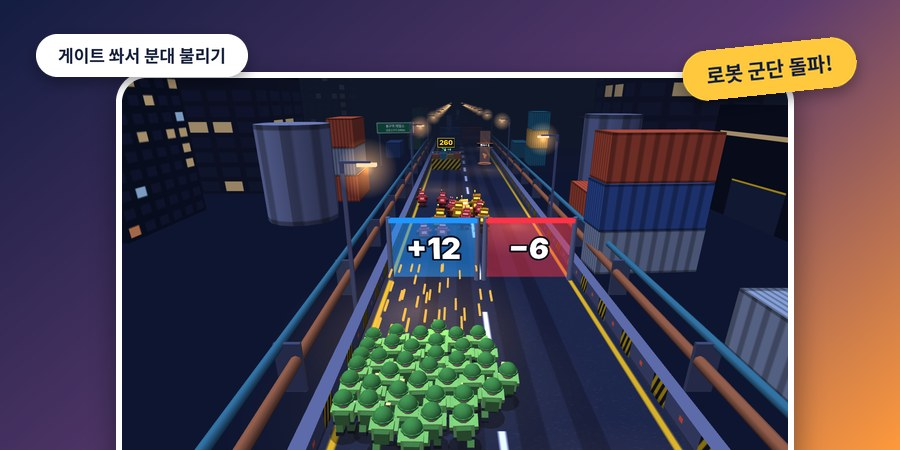
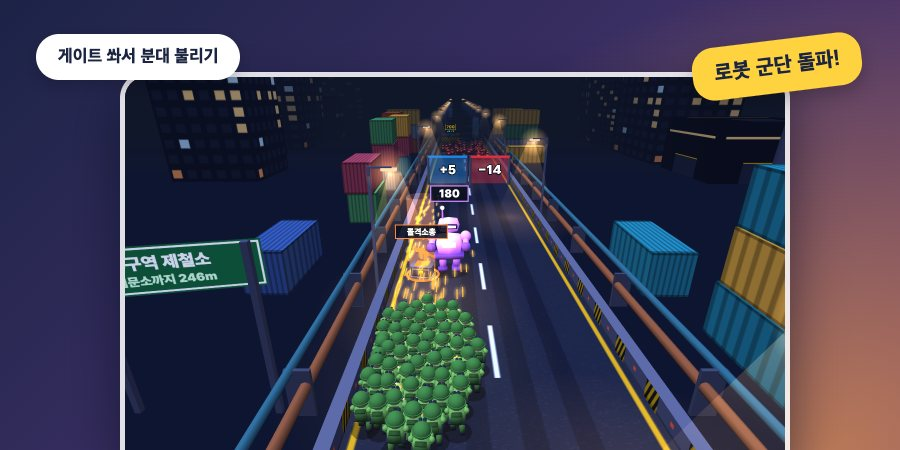
fix: 야간 분대 작전 퀄리티 점검 — 병사(조끼 · 야간 투시경) · 로봇 · 보스 · 무기 상자 · 바리케이드 둥글고 디테일 있게, 예광탄 · 총구 불꽃 · 가로등 빛 원뿔, 보스 안내 띠 위치, 대표 그림

diff --git a/web/games/embed/nightsquad.html b/web/games/embed/nightsquad.html
@@ -58,7 +58,7 @@ button:focus-visible{outline:3px solid var(--hazard);outline-offset:3px}
 #bossBar span{font-size:15px;color:#ffd0d4;text-shadow:0 1px 3px #000}
 #bossBar div{width:100%;height:12px;background:rgba(13,19,36,.9);border:1px solid #6b2330;border-radius:3px;overflow:hidden}
 #bossFill{display:block;height:100%;width:100%;background:linear-gradient(90deg,var(--foe),#ff8a5c)}
-#banner{position:fixed;left:50%;top:27%;transform:translate(-50%,-50%) scale(.9);padding:9px 26px;font-size:clamp(22px,5vw,42px);color:#14161c;background:var(--hazard);border-top:6px solid #14161c;border-bottom:6px solid #14161c;outline:4px solid var(--hazard);opacity:0;pointer-events:none;transition:opacity .2s,transform .2s;white-space:nowrap}
+#banner{position:fixed;left:50%;top:44%;transform:translate(-50%,-50%) scale(.9);padding:9px 26px;font-size:clamp(22px,5vw,42px);color:#14161c;background:var(--hazard);border-top:6px solid #14161c;border-bottom:6px solid #14161c;outline:4px solid var(--hazard);opacity:0;pointer-events:none;transition:opacity .2s,transform .2s;white-space:nowrap}
 #banner.on{opacity:1;transform:translate(-50%,-50%) scale(1)}
 #floats{position:fixed;inset:0;pointer-events:none;overflow:hidden}
 .float{position:absolute;left:-99px;top:-99px;font-family:var(--font-display);font-weight:900;font-synthesis:none;font-style:normal;font-size:clamp(26px,5vw,46px);white-space:nowrap;opacity:0;transform:translate(-50%,-50%);animation:rise .95s cubic-bezier(.2,.7,.3,1) forwards;text-shadow:0 2px 0 rgba(0,0,0,.6),0 0 18px rgba(0,0,0,.55)}
@@ -732,6 +732,11 @@ const dz = d => -d;
   fill(new T.InstancedMesh(BOXU, new T.MeshBasicMaterial({ color: 0xffe2b0 }), heads.length), heads);
   const poolMesh = fill(new T.InstancedMesh(new T.PlaneGeometry(1, 1).rotateX(-Math.PI / 2), new T.MeshBasicMaterial({ map: glowTex, color: 0xffa348, transparent: true, opacity: 0.26, blending: T.AdditiveBlending, depthWrite: false }), pools.length), pools);
   poolMesh.renderOrder = 1;
+  // 가로등 빛 기둥 — 위가 진하고 아래로 갈수록 옅어지는 원뿔(밤 분위기)
+  const coneTex = tex(8, 64, (g, w, h) => { const r = g.createLinearGradient(0, 0, 0, h); r.addColorStop(0, 'rgba(255,255,255,.9)'); r.addColorStop(0.5, 'rgba(255,255,255,.28)'); r.addColorStop(1, 'rgba(255,255,255,0)'); g.fillStyle = r; g.fillRect(0, 0, w, h); });
+  const cones = heads.map(o => [o[0] - Math.sign(o[0]) * 0.3, 0, o[2], 1, 1, 1, 0]);
+  const coneMesh = fill(new T.InstancedMesh(new T.CylinderGeometry(0.32, 2.7, 6.7, 18, 1, true).translate(0, 3.35, 0), new T.MeshBasicMaterial({ map: coneTex, color: 0xffb35c, transparent: true, opacity: 0.16, blending: T.AdditiveBlending, depthWrite: false, side: T.DoubleSide }), cones.length), cones);
+  coneMesh.renderOrder = 1;
   const glowGeo = new T.BufferGeometry(); glowGeo.setAttribute('position', new T.Float32BufferAttribute(glowPos, 3));
   const lampGlow = new T.Points(glowGeo, new T.PointsMaterial({ map: glowTex, color: 0xffb45e, size: 5.5, transparent: true, opacity: 0.9, blending: T.AdditiveBlending, depthWrite: false, fog: false }));
   lampGlow.frustumCulled = false; env.add(lampGlow);
@@ -853,39 +858,64 @@ function merge(parts) {
   return g;
 }
 const B = (w, h, d) => new T.BoxGeometry(w, h, d);
-// 병사 — −z(앞)를 보고 선다. 무기 단계마다 총이 커지고 총구 빛깔이 바뀐다
+// 둥근 모서리 상자 — 상자 꼭짓점을 안쪽 상자 둘레로 r 만큼 둥글게 민다
+function R(w, h, d, r, seg) {
+  r = Math.min(r, w / 2 - 1e-3, h / 2 - 1e-3, d / 2 - 1e-3); seg = seg || 2;
+  const g = new T.BoxGeometry(w, h, d, seg, seg, seg), p = g.attributes.position, nr = g.attributes.normal;
+  const ix = w / 2 - r, iy = h / 2 - r, iz = d / 2 - r, v = new T.Vector3(), c = new T.Vector3();
+  for (let i = 0; i < p.count; i++) {
+    v.fromBufferAttribute(p, i);
+    c.set(clamp(v.x, -ix, ix), clamp(v.y, -iy, iy), clamp(v.z, -iz, iz));
+    v.sub(c); if (v.lengthSq() < 1e-12) continue; v.normalize();
+    nr.setXYZ(i, v.x, v.y, v.z); v.multiplyScalar(r).add(c); p.setXYZ(i, v.x, v.y, v.z);
+  }
+  return g;
+}
+const Cy = (rt, rb, h, n) => new T.CylinderGeometry(rt, rb, h, n || 10);
+const Sp = (r, a, b) => new T.SphereGeometry(r, a || 10, b || 8);
+const RX = Math.PI / 2;
+// 병사 — −z(앞)를 보고 선다. 둥근 몸통 · 헬멧 · 야간 투시경(초록 빛) · 무기 단계마다 총이 커지고 총구 빛깔이 바뀐다
 function soldierBody(lvl) {
-  const uni = 0x74b356, dark = 0x3f6f36, skin = 0xf3c9a0, helm = 0x3d7f3a, gear = 0x262c3a, k = lvl * 0.014;
+  const uni = 0x6fae52, dark = 0x3c6a34, skin = 0xf3c9a0, helm = 0x3f7d3b, gear = 0x262c3a, metal = 0x4a5266, k = lvl * 0.014, gl = 0.62 + lvl * 0.07;
   return merge([
-    part(B(0.5, 0.42, 0.32), uni, 0, 0.57, 0),
-    part(B(0.52, 0.08, 0.34), gear, 0, 0.4, 0),
-    part(B(0.34, 0.3, 0.15), dark, 0, 0.6, 0.22),
-    part(new T.SphereGeometry(0.2, 10, 8), skin, 0, 0.97, 0),
-    part(new T.SphereGeometry(0.24, 10, 5, 0, Math.PI * 2, 0, Math.PI / 2), helm, 0, 1.0, 0),
-    part(new T.CylinderGeometry(0.262, 0.262, 0.045, 10), helm, 0, 1.0, 0),
-    part(B(0.05, 0.06, 0.03), 0x20242c, -0.075, 0.97, -0.19), part(B(0.05, 0.06, 0.03), 0x20242c, 0.075, 0.97, -0.19),
-    part(B(0.13, 0.13, 0.36), uni, -0.28, 0.62, -0.14, 0.25), part(B(0.13, 0.13, 0.36), uni, 0.28, 0.62, -0.14, 0.25),
-    part(B(0.1, 0.1, 0.1), skin, -0.2, 0.6, -0.33), part(B(0.1, 0.1, 0.1), skin, 0.2, 0.6, -0.33),
-    part(B(0.09 + k, 0.12 + k, 0.62 + lvl * 0.07), gear, 0, 0.62, -0.42 - lvl * 0.035),
-    part(B(0.07, 0.16, 0.1), gear, 0, 0.53, -0.3),
-    part(B(0.11 + k, 0.14 + k, 0.1), WEAPONS[lvl].color, 0, 0.62, -0.76 - lvl * 0.07, 0, 0, 0, 1.5),
+    part(R(0.5, 0.44, 0.32, 0.12), uni, 0, 0.58, 0),
+    part(R(0.42, 0.26, 0.08, 0.04), dark, 0, 0.62, -0.17),            // 방탄 조끼 앞판
+    part(R(0.53, 0.08, 0.35, 0.035), gear, 0, 0.4, 0),               // 탄띠
+    part(R(0.34, 0.34, 0.17, 0.07), dark, 0, 0.62, 0.22),            // 배낭
+    part(R(0.3, 0.06, 0.16, 0.025), 0x2f5229, 0, 0.8, 0.24),
+    part(Sp(0.2, 10, 7), skin, 0, 0.97, 0),
+    part(new T.SphereGeometry(0.245, 12, 5, 0, Math.PI * 2, 0, Math.PI / 2), helm, 0, 1.0, 0),
+    part(Cy(0.265, 0.265, 0.045, 12), helm, 0, 1.0, 0),
+    part(R(0.2, 0.05, 0.05, 0.02), gear, 0, 1.08, -0.22),           // 투시경 받침
+    part(Cy(0.045, 0.05, 0.12, 8), gear, -0.055, 1.08, -0.27, RX), part(Cy(0.045, 0.05, 0.12, 8), gear, 0.055, 1.08, -0.27, RX),
+    part(Cy(0.034, 0.034, 0.02, 8), 0x7dffb0, -0.055, 1.08, -0.335, RX, 0, 0, 2.2), part(Cy(0.034, 0.034, 0.02, 8), 0x7dffb0, 0.055, 1.08, -0.335, RX, 0, 0, 2.2),
+    part(Sp(0.085, 8, 6), uni, -0.27, 0.72, 0), part(Sp(0.085, 8, 6), uni, 0.27, 0.72, 0),   // 어깨
+    part(Cy(0.065, 0.06, 0.38, 8), uni, -0.25, 0.64, -0.16, RX - 0.25), part(Cy(0.065, 0.06, 0.38, 8), uni, 0.25, 0.64, -0.16, RX - 0.25),
+    part(Sp(0.062, 8, 6), skin, -0.19, 0.6, -0.34), part(Sp(0.062, 8, 6), skin, 0.19, 0.6, -0.34),
+    part(R(0.1 + k, 0.13 + k, 0.46 + lvl * 0.05, 0.035), gear, 0, 0.63, -0.36 - lvl * 0.02),  // 총몸
+    part(R(0.08, 0.15, 0.08, 0.025), gear, 0, 0.53, -0.32),                                    // 탄창
+    part(R(0.06 + k, 0.06, 0.18, 0.02), metal, 0, 0.72 + k, -0.4),                            // 조준경
+    part(Cy(0.03 + k * 0.6, 0.03 + k * 0.6, 0.3 + lvl * 0.05, 8), metal, 0, 0.65, -gl + 0.04, RX), // 총열
+    part(Cy(0.055 + k, 0.045 + k, 0.08, 8), WEAPONS[lvl].color, 0, 0.65, -gl - 0.1 - lvl * 0.025, RX, 0, 0, 1.6),
   ]);
 }
 const solGeos = WEAPONS.map((w, i) => soldierBody(i));
-const solLegGeo = merge([part(B(0.17, 0.34, 0.2), 0x4c7f3c, 0, -0.17, 0), part(B(0.19, 0.1, 0.28), 0x1b1e26, 0, -0.33, -0.03)]);
+const solLegGeo = merge([part(R(0.17, 0.34, 0.2, 0.07), 0x4a7c3b, 0, -0.17, 0), part(R(0.19, 0.11, 0.29, 0.05), 0x1b1e26, 0, -0.33, -0.03)]);
 // 폭주 로봇 — 흰빛 몸에 종류별 색을 곱한다. 눈 · 가슴등은 밝게
 const robotGeo = merge([
-  part(B(0.6, 0.5, 0.38), 0xdcdce2, 0, 0.62, 0),
-  part(B(0.3, 0.16, 0.03), 0xffffff, 0, 0.66, -0.2, 0, 0, 0, 2.6),
-  part(B(0.44, 0.32, 0.36), 0xbfbfc8, 0, 1.06, 0),
-  part(B(0.36, 0.1, 0.03), 0xffffff, 0, 1.08, -0.19, 0, 0, 0, 3),
-  part(B(0.04, 0.2, 0.04), 0x8a8a94, 0.12, 1.32, 0),
-  part(B(0.07, 0.07, 0.07), 0xffffff, 0.12, 1.44, 0, 0, 0, 0, 3),
-  part(B(0.14, 0.14, 0.5), 0x9a9aa6, -0.38, 0.72, -0.22), part(B(0.14, 0.14, 0.5), 0x9a9aa6, 0.38, 0.72, -0.22),
-  part(B(0.18, 0.18, 0.14), 0x55555e, -0.38, 0.72, -0.52), part(B(0.18, 0.18, 0.14), 0x55555e, 0.38, 0.72, -0.52),
-  part(B(0.7, 0.12, 0.42), 0x44444c, 0, 0.36, 0),
+  part(R(0.62, 0.52, 0.42, 0.16), 0xdcdce2, 0, 0.63, 0),
+  part(R(0.32, 0.14, 0.05, 0.04), 0xffffff, 0, 0.66, -0.2, 0, 0, 0, 2.6),
+  part(R(0.5, 0.36, 0.4, 0.15), 0xc4c4cc, 0, 1.08, 0),
+  part(R(0.4, 0.12, 0.05, 0.05), 0x22222a, 0, 1.09, -0.19),
+  part(R(0.34, 0.07, 0.04, 0.03), 0xffffff, 0, 1.09, -0.215, 0, 0, 0, 3),
+  part(Cy(0.02, 0.025, 0.22, 6), 0x8a8a94, 0.13, 1.34, 0),
+  part(Sp(0.05, 8, 6), 0xffffff, 0.13, 1.47, 0, 0, 0, 0, 3),
+  part(Sp(0.13, 10, 8), 0xa8a8b2, -0.38, 0.8, 0), part(Sp(0.13, 10, 8), 0xa8a8b2, 0.38, 0.8, 0),
+  part(Cy(0.07, 0.07, 0.46, 8), 0x9a9aa6, -0.38, 0.72, -0.22, RX), part(Cy(0.07, 0.07, 0.46, 8), 0x9a9aa6, 0.38, 0.72, -0.22, RX),
+  part(R(0.2, 0.2, 0.16, 0.06), 0x55555e, -0.38, 0.72, -0.5), part(R(0.2, 0.2, 0.16, 0.06), 0x55555e, 0.38, 0.72, -0.5),
+  part(R(0.7, 0.13, 0.44, 0.05), 0x44444c, 0, 0.36, 0),
 ]);
-const robotLegGeo = merge([part(B(0.18, 0.34, 0.2), 0x77777f, 0, -0.17, 0), part(B(0.22, 0.1, 0.3), 0x3a3a42, 0, -0.33, -0.03)]);
+const robotLegGeo = merge([part(R(0.18, 0.34, 0.2, 0.07), 0x77777f, 0, -0.17, 0), part(R(0.24, 0.11, 0.32, 0.05), 0x3a3a42, 0, -0.33, -0.03)]);
 
 function inst(geo, mat, cap, colored) {
   const m = new T.InstancedMesh(geo, mat, cap);
@@ -899,7 +929,14 @@ const solBody = inst(solGeos[0], charMat, SOLCAP, true), solLegL = inst(solLegGe
 const enBody = inst(robotGeo, charMat, ENCAP, true), enLegL = inst(robotLegGeo, charMat, ENCAP, true), enLegR = inst(robotLegGeo, charMat, ENCAP, true);
 const shadows = inst(new T.CircleGeometry(0.42, 12).rotateX(-Math.PI / 2), new T.MeshBasicMaterial({ color: 0x000000, transparent: true, opacity: 0.38, depthWrite: false }), SHCAP, false);
 const bulletMat = new T.MeshBasicMaterial({ color: WEAPONS[0].color, fog: false });
-const bullets = inst(new T.BoxGeometry(1, 1, 1), bulletMat, BULCAP, false);
+const bullets = inst(new T.CylinderGeometry(0.5, 0.5, 1, 6).rotateX(Math.PI / 2), bulletMat, BULCAP, false);
+// 예광탄 겉 빛 — 같은 자리에 넓고 옅은 빛 띠를 더한다
+const tracerMat = new T.MeshBasicMaterial({ map: glowTex, color: WEAPONS[0].color, transparent: true, opacity: 0.55, blending: T.AdditiveBlending, depthWrite: false, fog: false });
+const tracers = inst(new T.PlaneGeometry(1, 1).rotateX(-Math.PI / 2), tracerMat, BULCAP, false);
+// 총구 불꽃 — 방금 쏜 병사의 총 끝에 반짝
+const flashGeo = new T.BufferGeometry(); flashGeo.setAttribute('position', new T.BufferAttribute(new Float32Array(SOLCAP * 3), 3).setUsage(T.DynamicDrawUsage));
+const flashMat = new T.PointsMaterial({ map: glowTex, color: WEAPONS[0].color, size: 1.0, transparent: true, blending: T.AdditiveBlending, depthWrite: false });
+const flashes = new T.Points(flashGeo, flashMat); flashes.frustumCulled = false; scene.add(flashes);
 const sparks = inst(new T.BoxGeometry(1, 1, 1), new T.MeshBasicMaterial({ vertexColors: false }), PCAP, true);
 // 분대 발밑 총구 불빛
 const squadGlow = new T.Mesh(new T.PlaneGeometry(1, 1).rotateX(-Math.PI / 2), new T.MeshBasicMaterial({ map: glowTex, color: 0xffb060, transparent: true, opacity: 0, blending: T.AdditiveBlending, depthWrite: false }));
@@ -916,19 +953,23 @@ function commit(mesh, n) { mesh.count = n; mesh.instanceMatrix.needsUpdate = tru
 
 /* ---------- 보스: 거대 경비 로봇 (+z, 분대 쪽을 본다) ---------- */
 const boss = (() => {
+  const RB = (w, h, d, r) => R(w, h, d, r, 4);
   const g = new T.Group(); g.visible = false; scene.add(g);
-  const steel = new T.MeshLambertMaterial({ color: 0x3b4363 }), dark = new T.MeshLambertMaterial({ color: 0x20263c }), haz = new T.MeshLambertMaterial({ color: 0xe6a81c }), glow = new T.MeshBasicMaterial({ color: 0xff3b30 });
+  const steel = new T.MeshLambertMaterial({ color: 0x46507a }), dark = new T.MeshLambertMaterial({ color: 0x232a42 }), haz = new T.MeshLambertMaterial({ color: 0xe6a81c }), glow = new T.MeshBasicMaterial({ color: 0xff3b30 });
   const M = (geo, mat, x, y, z, parent) => { const m = new T.Mesh(geo, mat); m.position.set(x, y, z); (parent || g).add(m); return m; };
   const body = new T.Group(); g.add(body);
-  M(B(2.8, 0.9, 1.7), dark, 0, 2.75, 0, body);
-  M(B(3.7, 2.4, 2.3), steel, 0, 4.3, 0, body);
-  M(B(3.74, 0.5, 2.34), haz, 0, 3.45, 0, body);
-  const core = M(new T.SphereGeometry(0.62, 12, 10), glow, 0, 4.55, 1.2, body);
-  M(B(1.4, 1.0, 1.3), dark, 0, 6.0, 0, body); M(B(1.12, 0.26, 0.1), glow, 0, 6.05, 0.68, body);
-  M(B(0.1, 0.9, 0.1), dark, 0.45, 6.9, 0, body); M(B(0.2, 0.2, 0.2), glow, 0.45, 7.4, 0, body);
+  M(RB(2.8, 0.9, 1.8, 0.35), dark, 0, 2.75, 0, body);                       // 허리
+  M(RB(3.8, 2.5, 2.4, 0.6), steel, 0, 4.3, 0, body);                        // 가슴
+  M(RB(3.86, 0.46, 2.46, 0.2), haz, 0, 3.4, 0, body);                       // 노란 띠
+  M(RB(2.2, 1.3, 0.3, 0.14), dark, 0, 4.55, 1.12, body);                    // 가슴판
+  const core = M(Sp(0.5, 16, 12), glow, 0, 4.55, 1.3, body);
+  for (const s of [-1, 1]) for (let i = 0; i < 3; i++) M(RB(0.5, 0.09, 0.08, 0.04), haz, s * 1.3, 4.95 - i * 0.26, 1.21, body); // 환기구
+  M(RB(1.6, 1.15, 1.4, 0.42), steel, 0, 6.05, 0, body);                     // 머리
+  M(RB(1.3, 0.34, 0.2, 0.15), dark, 0, 6.1, 0.66, body); M(RB(1.12, 0.16, 0.08, 0.07), glow, 0, 6.1, 0.76, body); // 눈 띠
+  M(Cy(0.05, 0.07, 0.9, 6), dark, 0.5, 6.95, 0, body); M(Sp(0.15, 10, 8), glow, 0.5, 7.42, 0, body);
   const limb = (x, y, parent) => { const p = new T.Group(); p.position.set(x, y, 0); (parent || g).add(p); return p; };
-  const legs = [-1, 1].map(s => { const p = limb(s * 0.95, 2.6); M(B(1, 1.5, 1.1), steel, 0, -0.75, 0, p); M(B(0.85, 1.2, 0.95), dark, 0, -1.85, 0, p); M(B(1.25, 0.45, 1.8), haz, 0, -2.38, 0.25, p); return p; });
-  const arms = [-1, 1].map(s => { const p = limb(s * 2.6, 5.1, body); M(B(1.5, 1.3, 1.7), haz, 0, 0, 0, p); M(B(0.85, 1.9, 0.95), steel, 0, -1.5, 0, p); M(new T.CylinderGeometry(0.55, 0.62, 1.5, 12).rotateX(Math.PI / 2), dark, 0, -2.5, 0.45, p); M(new T.CylinderGeometry(0.3, 0.3, 0.1, 12).rotateX(Math.PI / 2), glow, 0, -2.5, 1.22, p); return p; });
+  const legs = [-1, 1].map(s => { const p = limb(s * 0.95, 2.6); M(RB(1.05, 1.5, 1.15, 0.36), steel, 0, -0.75, 0, p); M(Sp(0.42, 12, 10), dark, 0, -1.45, 0.05, p); M(RB(0.85, 1.1, 0.95, 0.3), dark, 0, -1.9, 0, p); M(RB(1.3, 0.45, 1.85, 0.2), haz, 0, -2.38, 0.25, p); return p; });
+  const arms = [-1, 1].map(s => { const p = limb(s * 2.6, 5.1, body); M(RB(1.6, 1.35, 1.8, 0.5), haz, 0, 0.05, 0, p); M(RB(1.2, 0.18, 1.5, 0.08), dark, 0, 0.62, 0, p); M(Cy(0.42, 0.42, 1.9, 12), steel, 0, -1.5, 0, p); M(Cy(0.55, 0.62, 1.5, 14).rotateX(Math.PI / 2), dark, 0, -2.5, 0.45, p); M(Cy(0.3, 0.3, 0.1, 14).rotateX(Math.PI / 2), glow, 0, -2.5, 1.22, p); return p; });
   return { g, body, legs, arms, core, mats: [steel, dark, haz], dying: 0, x: 0, d: 0 };
 })();
 
@@ -953,6 +994,20 @@ const stage = new T.Group(); scene.add(stage);
 let gateViews = [], barrViews = [], pickViews = [];
 const postGeo = new T.CylinderGeometry(0.13, 0.16, 3.6, 8).translate(0, 1.8, 0), postMat = new T.MeshLambertMaterial({ color: 0x5b6480 });
 const crateGeo = B(1, 1, 1), barrMat = new T.MeshLambertMaterial({ map: hazardTex }), cageMat = new T.MeshLambertMaterial({ vertexColors: true });
+// 무기 상자 — 둥근 철제 상자(가장자리 빛 띠) 위에 총이 떠서 돈다. 모양은 한 번만 만들어 함께 쓴다
+const pickCrateGeo = merge([
+  part(R(1.3, 0.72, 0.96, 0.1), 0x2b3550, 0, 0.38, 0),
+  part(R(1.36, 0.1, 1.02, 0.045), 0x56627f, 0, 0.74, 0),
+  part(R(1.36, 0.1, 1.02, 0.045), 0x56627f, 0, 0.06, 0),
+  part(R(0.08, 0.6, 1.0, 0.03), 0x56627f, -0.5, 0.4, 0), part(R(0.08, 0.6, 1.0, 0.03), 0x56627f, 0.5, 0.4, 0),
+  part(R(0.32, 0.22, 0.04, 0.03), 0xf2c21a, 0, 0.42, 0.49), part(R(0.32, 0.22, 0.04, 0.03), 0xf2c21a, 0, 0.42, -0.49),
+]);
+const pickBandGeo = merge([part(R(1.0, 0.07, 0.04, 0.02), 0xffffff, 0, 0.6, 0.5), part(R(1.0, 0.07, 0.04, 0.02), 0xffffff, 0, 0.6, -0.5), part(R(0.85, 0.035, 0.85, 0.015), 0xffffff, 0, 0.8, 0)]);
+const pickGunGeo = merge([
+  part(R(1.2, 0.28, 0.22, 0.08), 0xffffff, 0.05, 0, 0), part(R(0.5, 0.22, 0.18, 0.07), 0xffffff, -0.75, -0.06, 0, 0, 0, -0.22),
+  part(R(0.2, 0.46, 0.18, 0.07), 0xffffff, -0.1, -0.3, 0, 0, 0, 0.2), part(R(0.16, 0.36, 0.16, 0.05), 0xffffff, 0.35, -0.26, 0),
+  part(Cy(0.07, 0.07, 0.62, 10), 0xffffff, 0.95, 0.03, 0, 0, 0, RX), part(R(0.4, 0.1, 0.12, 0.04), 0xffffff, 0.1, 0.2, 0),
+]);
 function disposeStage() {
   stage.traverse(o => { if (o.isMesh) { if (o.userData.own) o.geometry.dispose(); const m = o.material; if (m && m.userData.own) { if (m.map && m.map.isCanvasTexture && m.userData.ownMap) m.map.dispose(); m.dispose(); } } });
   while (stage.children.length) stage.remove(stage.children[0]);
@@ -975,13 +1030,13 @@ function buildStage(S) {
     const w = b.x1 - b.x0, grp = new T.Group(); grp.position.set((b.x0 + b.x1) / 2, 0, -b.d); stage.add(grp);
     const blockTex = hazardTex.clone(); blockTex.wrapS = T.RepeatWrapping; blockTex.repeat.set(w / 2.6, 1); blockTex.needsUpdate = true;
     const bmat = own(new T.MeshLambertMaterial({ map: blockTex })); bmat.userData.ownMap = true;
-    const block = new T.Mesh(own(B(w, 1.5, 1.0)), bmat); block.userData.own = true; block.position.y = 0.75; grp.add(block);
+    const block = new T.Mesh(own(R(w, 1.5, 1.0, 0.16, 2)), bmat); block.userData.own = true; block.position.y = 0.75; grp.add(block);
     const crates = [];
-    for (let i = 0, x = -w / 2 + 0.6; x < w / 2 - 0.4; x += 1.05, i++) crates.push(part(B(0.95, 0.62 + (i % 2) * 0.2, 0.8), [0x8a4a2f, 0x2f6f7f, 0x8a6d2f][i % 3], x, 1.5 + (0.62 + (i % 2) * 0.2) / 2, 0.02 * (i % 2 ? 1 : -1), 0, (i % 3 - 1) * 0.12));
+    for (let i = 0, x = -w / 2 + 0.6; x < w / 2 - 0.4; x += 1.05, i++) crates.push(part(R(0.95, 0.62 + (i % 2) * 0.2, 0.8, 0.08, 2), [0x8a4a2f, 0x2f6f7f, 0x8a6d2f][i % 3], x, 1.5 + (0.62 + (i % 2) * 0.2) / 2, 0.02 * (i % 2 ? 1 : -1), 0, (i % 3 - 1) * 0.12));
     const top = new T.Mesh(own(merge(crates)), cageMat); top.userData.own = true; grp.add(top);
     // 포로 우리 — 바리케이드 뒤
     const bars = [], rows = b.free > 6 ? 2 : 1, z0 = -1.5, z1 = -2.75 - (rows - 1) * 0.95;
-    for (let x = -w / 2 + 0.1; x <= w / 2 - 0.05; x += 0.5) { bars.push(part(B(0.06, 2.1, 0.06), 0x9aa3b8, x, 1.05, z0)); bars.push(part(B(0.06, 2.1, 0.06), 0x9aa3b8, x, 1.05, z1)); }
+    for (let x = -w / 2 + 0.1; x <= w / 2 - 0.05; x += 0.5) { bars.push(part(Cy(0.035, 0.035, 2.1, 6), 0x9aa3b8, x, 1.05, z0)); bars.push(part(Cy(0.035, 0.035, 2.1, 6), 0x9aa3b8, x, 1.05, z1)); }
     for (const z of [z0, z1]) bars.push(part(B(w, 0.09, 0.09), 0x9aa3b8, 0, 2.1, z));
     for (const s of [-1, 1]) bars.push(part(B(0.09, 0.09, z0 - z1), 0x9aa3b8, s * (w / 2 - 0.05), 2.1, (z0 + z1) / 2));
     const cage = new T.Mesh(own(merge(bars)), cageMat); cage.userData.own = true; grp.add(cage);
@@ -993,11 +1048,13 @@ function buildStage(S) {
     const grp = new T.Group(); grp.position.set(p.x, 0, -p.d); stage.add(grp);
     const col = 0x7df9ff;
     const ring = new T.Mesh(own(new T.TorusGeometry(0.95, 0.07, 6, 28).rotateX(Math.PI / 2)), own(new T.MeshBasicMaterial({ color: col }))); ring.userData.own = true; ring.position.y = 0.08; grp.add(ring);
-    const beam = new T.Mesh(own(new T.CylinderGeometry(0.8, 0.8, 5, 18, 1, true).translate(0, 2.5, 0)), own(new T.MeshBasicMaterial({ color: col, transparent: true, opacity: 0.16, blending: T.AdditiveBlending, depthWrite: false, side: T.DoubleSide }))); beam.userData.own = true; grp.add(beam);
-    const gun = new T.Mesh(own(merge([part(B(1.5, 0.26, 0.2), 0xffffff, 0.1, 0, 0), part(B(0.5, 0.2, 0.18), 0xffffff, -0.75, -0.06, 0, 0, 0, -0.25), part(B(0.2, 0.46, 0.18), 0xffffff, -0.1, -0.3, 0, 0, 0, 0.2), part(B(0.16, 0.36, 0.16), 0xffffff, 0.35, -0.26, 0), part(B(0.4, 0.12, 0.12), 0xffffff, 1.0, 0.03, 0)])), own(new T.MeshBasicMaterial({ color: col }))); gun.userData.own = true; gun.position.y = 1.55; grp.add(gun);
-    const L = makeLabel(256, 80, 2.6, 0.81, false); L.mesh.material.userData.own = true; L.mesh.material.userData.ownMap = true; L.mesh.userData.own = true;
+    const beam = new T.Mesh(own(new T.CylinderGeometry(0.8, 0.8, 5, 18, 1, true).translate(0, 2.5, 0)), own(new T.MeshBasicMaterial({ color: col, transparent: true, opacity: 0.22, blending: T.AdditiveBlending, depthWrite: false, side: T.DoubleSide }))); beam.userData.own = true; grp.add(beam);
+    const gun = new T.Mesh(pickGunGeo, own(new T.MeshBasicMaterial({ color: col }))); gun.position.y = 1.62; grp.add(gun);
+    const crate = new T.Mesh(pickCrateGeo, cageMat); crate.rotation.y = 0.18 * Math.sign(p.x || 1); grp.add(crate);
+    const band = new T.Mesh(pickBandGeo, own(new T.MeshBasicMaterial({ color: col }))); crate.add(band);
+    const L = makeLabel(256, 80, 3.2, 1.0, false); L.mesh.material.userData.own = true; L.mesh.material.userData.ownMap = true; L.mesh.userData.own = true;
     L.mesh.position.set(0, 2.85, 0); L.mesh.renderOrder = 3; grp.add(L.mesh);
-    return { p, grp, ring, beam, gun, L, key: null };
+    return { p, grp, ring, beam, gun, band, crate, L, key: null };
   });
 }
 function drawGate(gv) {
@@ -1021,7 +1078,7 @@ function drawPick(pv, text, col) {
   c.fillStyle = 'rgba(10,14,28,.85)'; c.fillRect(4, 8, 248, 64); c.strokeStyle = '#' + col.toString(16).padStart(6, '0'); c.lineWidth = 5; c.strokeRect(4, 8, 248, 64);
   big(c, text, 128, 43, 40, '#ffffff');
   pv.L.tx.needsUpdate = true;
-  pv.ring.material.color.setHex(col); pv.beam.material.color.setHex(col); pv.gun.material.color.setHex(col);
+  pv.ring.material.color.setHex(col); pv.beam.material.color.setHex(col); pv.gun.material.color.setHex(col); pv.band.material.color.setHex(col);
 }
 // 큰 로봇 머리 위 체력 숫자
 const hpLabels = [];
@@ -1319,7 +1376,7 @@ function sync(dt) {
   const running = S.phase === 'run', run = running ? clamp(S.v / CFG.SPEED, 0, 1) : 0, cheer = S.phase === 'win', idle = S.phase === 'ready';
   let n = 0, sh = 0;
   const SOLN = SOL * (1 - 0.14 * clamp((sol.length - 40) / 130, 0, 1)); // 큰 분대는 병사를 조금 작게 — 덜 겹치게
-  if (S.weapon !== lastWeapon) { lastWeapon = S.weapon; solBody.geometry = solGeos[S.weapon]; bulletMat.color.setHex(WEAPONS[S.weapon].color); muzzle.color.setHex(WEAPONS[S.weapon].color); squadGlow.material.color.setHex(WEAPONS[S.weapon].color); }
+  if (S.weapon !== lastWeapon) { lastWeapon = S.weapon; solBody.geometry = solGeos[S.weapon]; bulletMat.color.setHex(WEAPONS[S.weapon].color); tracerMat.color.setHex(WEAPONS[S.weapon].color); flashMat.color.setHex(WEAPONS[S.weapon].color); muzzle.color.setHex(WEAPONS[S.weapon].color); squadGlow.material.color.setHex(WEAPONS[S.weapon].color); }
   for (let i = 0; i < sol.length && n < SOLCAP; i++) {
     const s = sol[i], pop = s.born < 0 ? 1 : backOut(clamp((S.t - s.born) / 0.28, 0.05, 1)), sc = SOLN * pop;
     const sw = Math.sin(s.ph) * 0.8 * run, z = -s.d;
@@ -1391,8 +1448,12 @@ function sync(dt) {
 
   // 총알
   const W = WEAPONS[S.weapon]; let k = 0;
-  for (const b of S.bullets) { if (k >= BULCAP) break; const s = W.w * Math.min(2.2, Math.sqrt(b.wt)); put(bullets, k++, b.x, 0.86, -b.d, 0, 0, 0, s, s, W.len * 1.5); }
-  commit(bullets, k);
+  for (const b of S.bullets) { if (k >= BULCAP) break; const s = W.w * Math.min(2.2, Math.sqrt(b.wt)); put(bullets, k, b.x, 0.86, -b.d, 0, 0, 0, s * 0.8, s * 0.8, W.len * 1.5); put(tracers, k, b.x, 0.84, -b.d - W.len * 0.2, 0, 0, 0, s * 5, 1, W.len * 2.6); k++; }
+  commit(bullets, k); commit(tracers, k);
+  // 총구 불꽃
+  { const fa = flashGeo.attributes.position.array, iv = 1 / W.rate * Math.max(1, sol.length * W.rate / CFG.BUDGET); let f = 0;
+    if (running) for (let i = 0; i < sol.length && f < SOLCAP; i++) { const s = sol[i]; if (s.cd > iv * 0.62) { fa[f * 3] = s.x; fa[f * 3 + 1] = 0.65 * SOLN; fa[f * 3 + 2] = -s.d - (0.8 + S.weapon * 0.1) * SOLN; f++; } }
+    flashGeo.setDrawRange(0, f); flashGeo.attributes.position.needsUpdate = true; flashMat.size = 0.8 + S.weapon * 0.12; }
   const fire = running ? 0.55 + Math.random() * 0.45 : 0;
   muzzle.intensity = fire * 1.1; muzzle.position.set(S.x, 2.2, -S.d - F.rd - 1);
   squadGlow.material.opacity = fire * 0.2; squadGlow.position.set(S.x, 0.04, -S.d - F.rd * 0.4); squadGlow.scale.set(F.rx * 2 + 7, 1, F.rd * 2 + 8);
@@ -1425,7 +1486,7 @@ function sync(dt) {
   for (const pv of pickViews) {
     if (!pv.p.on) { pv.grp.visible = false; continue; }
     if (pv.key !== pv.p.lvl) { pv.key = pv.p.lvl; drawPick(pv, WEAPONS[pv.p.lvl].name, WEAPONS[pv.p.lvl].color); }
-    pv.gun.rotation.y = t * 2.2; pv.gun.position.y = 1.55 + Math.sin(t * 3) * 0.14; pv.ring.scale.setScalar(1 + Math.sin(t * 4) * 0.06); pv.L.mesh.rotation.x = -0.25; pv.L.mesh.material.opacity = near(pv.p.d);
+    pv.gun.rotation.y = t * 2.2; pv.gun.position.y = 1.62 + Math.sin(t * 3) * 0.14; pv.ring.scale.setScalar(1 + Math.sin(t * 4) * 0.06); pv.L.mesh.rotation.x = -0.25; pv.L.mesh.material.opacity = near(pv.p.d);
   }
 
   // 굴뚝 연기 · 항공등
